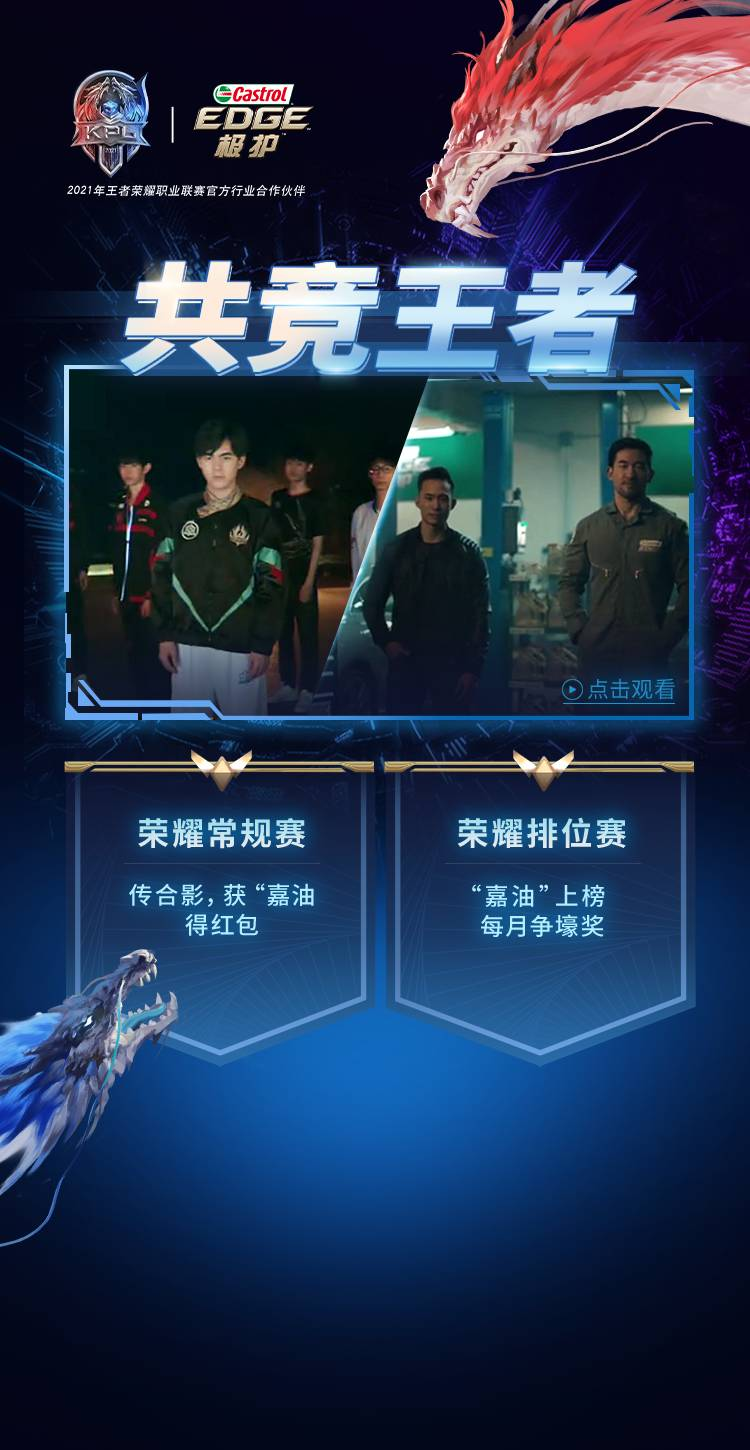
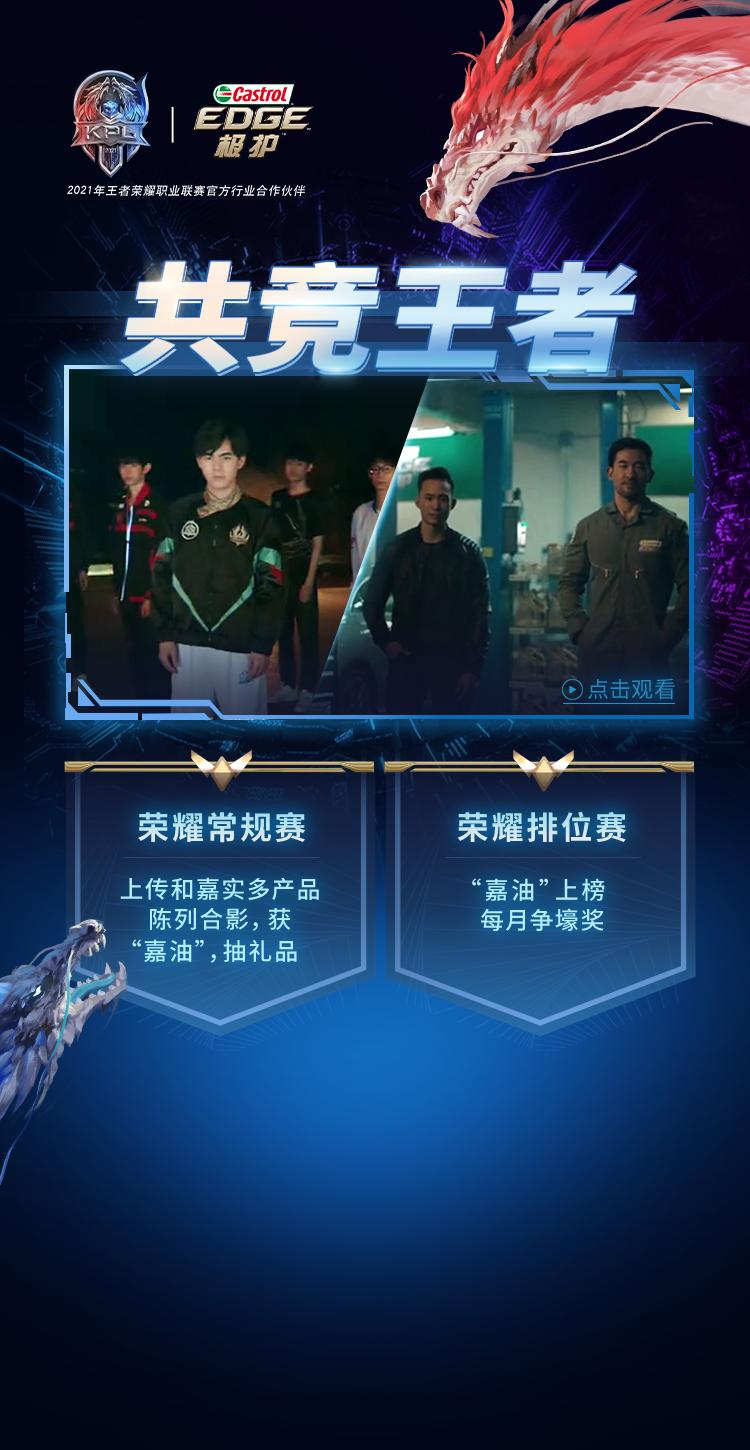
subcode

Changed region(s): [[0.0, 0.5586, 0.92, 0.8379], [0.6133, 0.5586, 0.8587, 0.6517], [0.0307, 0.8379, 0.0613, 0.869]]

diff --git a/king-of-competition/src/views/home/index.vue b/king-of-competition/src/views/home/index.vue
@@ -18,16 +18,16 @@
                 <h2>活动规则</h2>
                 <dl>
                     <dt>活动时间：</dt>
-                    <dd>2021年06月18日- 2021年8月17日</dd>
+                    <dd>2021年7月1日- 2021年8月31日</dd>
                     <dt>参与方式：</dt>
-                    <dd>用户通过扫描活动二维码，进入活动平台，参与活动获取积分，积分兑换抽奖机会，通过抽奖的方式抽取实物奖品</dd>
+                    <dd>用户通过扫描活动二维码，进入活动平台，参与活动获取"嘉油"，通过抽奖的方式抽取礼品</dd>
                     <dt>活动内容：</dt>
                     <dt class="popup-rule-title">荣耀常规赛</dt>
                     <dd>用户每天可上传一次照片。用户在每个活动周期首次上传照片并审核通过可获得100“嘉油”，后续每天上传照片并审核通过可获得50“嘉油”。“嘉油”可用于抽奖，每次抽奖将消耗500“嘉油”。用户有机会获得小米电动牙刷、小米无线蓝牙耳机、小米登机箱等奖品。用户可在“个人中心”查看剩余可抽奖“嘉油”。</dd>
                     <dd>每个活动周期用户的“嘉油”将清零。</dd>
                     <dt class="popup-rule-title">荣耀排位赛</dt>
                     <dd>后台将对用户在每个周期首次上传的照片质量进行打分，既为王者“嘉油”。每个活动周期的王者排位的“嘉油”为用户在每个活动周期上传照片并审核通过获得的总“嘉油”+王者“嘉油”，抽奖消耗的“嘉油”并不计算在内。</dd>
-                    <dd>每个活动周期结束后，“嘉油”排名前50名可以获得排位赛大奖，奖品为华为手环。</dd>
+                    <dd>每个活动周期结束后，“嘉油”排名前30名可以获得排位赛大奖，奖品为华为手环。</dd>
                 </dl>
                 <i class="popup-rile-close" @click="isRulePopup = false"></i>
             </div>
@@ -106,11 +106,11 @@
         @extend %pa;
         @extend %r0;
         top: j(186);
-        width: j(101);
-        height: j(54);
+        width: j(135);
+        height: j(56);
         background: url("~src/assets/images/rule-icon.jpg") no-repeat;
         background-size: contain;
-        border-radius: j(27) 0 0 j(27);
+        border-radius: j(28) 0 0 j(28);
     }
     .play-btn{
         @extend %cp;
@@ -121,12 +121,13 @@
         height: j(55);
     }
     .null-1{
-        height: j(1115);
+        height: j(1050);
     }
     .button-group{
         @extend %df;
         @extend %aic;
         @extend %jcc;
+        padding: 0 j(50);
     }
     .popup-rule-wrap{
         @extend %pf;

diff --git a/king-of-competition/src/views/main/index.vue b/king-of-competition/src/views/main/index.vue
@@ -37,7 +37,7 @@
     .tab-section{
         @extend %df;
         @extend %aic;
-        height: j(130);
+        height: j(90);
     }
     .tab-item{
         @extend %df1;

diff --git a/king-of-competition/src/views/mine/index.vue b/king-of-competition/src/views/mine/index.vue
@@ -149,5 +149,6 @@
         @extend %df;
         @extend %aic;
         @extend %jcc;
+        padding: 0 j(50);
     }
 </style>
